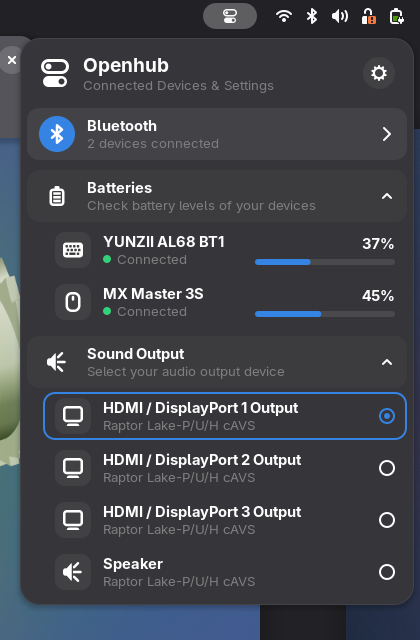
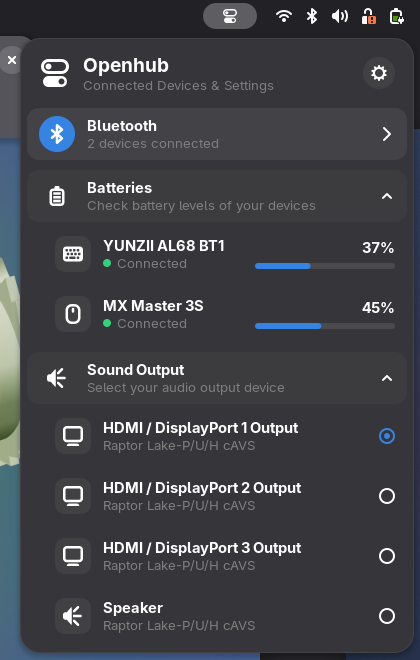
Extension: no outline on the selected output; roomier items
The selected output is shown by its accent radio mark only. Devices and
outputs under a section header get more padding above and below.

diff --git a/extension/openhub@cjts15.github.io/stylesheet.css b/extension/openhub@cjts15.github.io/stylesheet.css
@@ -1,6 +1,6 @@
 /* Rows are cards on the menu's background, in neutral greys that work in
    light and dark themes. The accent (the Bluetooth circle, the selected
-   output) is set from the shell theme by extension.js. */
+   output's radio mark) is set from the shell theme by extension.js. */
 
 .openhub-menu {
   min-width: 380px;
@@ -48,7 +48,7 @@
 
 .openhub-item {
   spacing: 12px;
-  padding: 6px 12px;
+  padding: 10px 12px;
   margin: 2px 0 2px 16px;
   border-radius: 12px;
 }
@@ -82,12 +82,6 @@
 
 .openhub-section .openhub-tile {
   background-color: transparent;
-}
-
-/* The selected output: an outline, in the accent colour. */
-.openhub-selected {
-  border: 2px solid rgba(127, 127, 127, 0.5);
-  padding: 4px 10px;
 }
 
 .openhub-status {

diff --git a/extension/openhub@cjts15.github.io/extension.js b/extension/openhub@cjts15.github.io/extension.js
@@ -195,11 +195,6 @@ class OpenhubIndicator extends PanelMenu.Button {
         for (const [id, output] of this._outputItems) {
             const active = id === activeId;
             output.radio.icon_name = active ? 'radio-checked-symbolic' : 'radio-symbolic';
-            if (active)
-                output.item.add_style_class_name('openhub-selected');
-            else
-                output.item.remove_style_class_name('openhub-selected');
-            output.item.set_style(active && this._accent ? `border-color: ${this._accent.color};` : null);
             output.radio.set_style(active && this._accent ? `color: ${this._accent.color};` : null);
         }
     }
